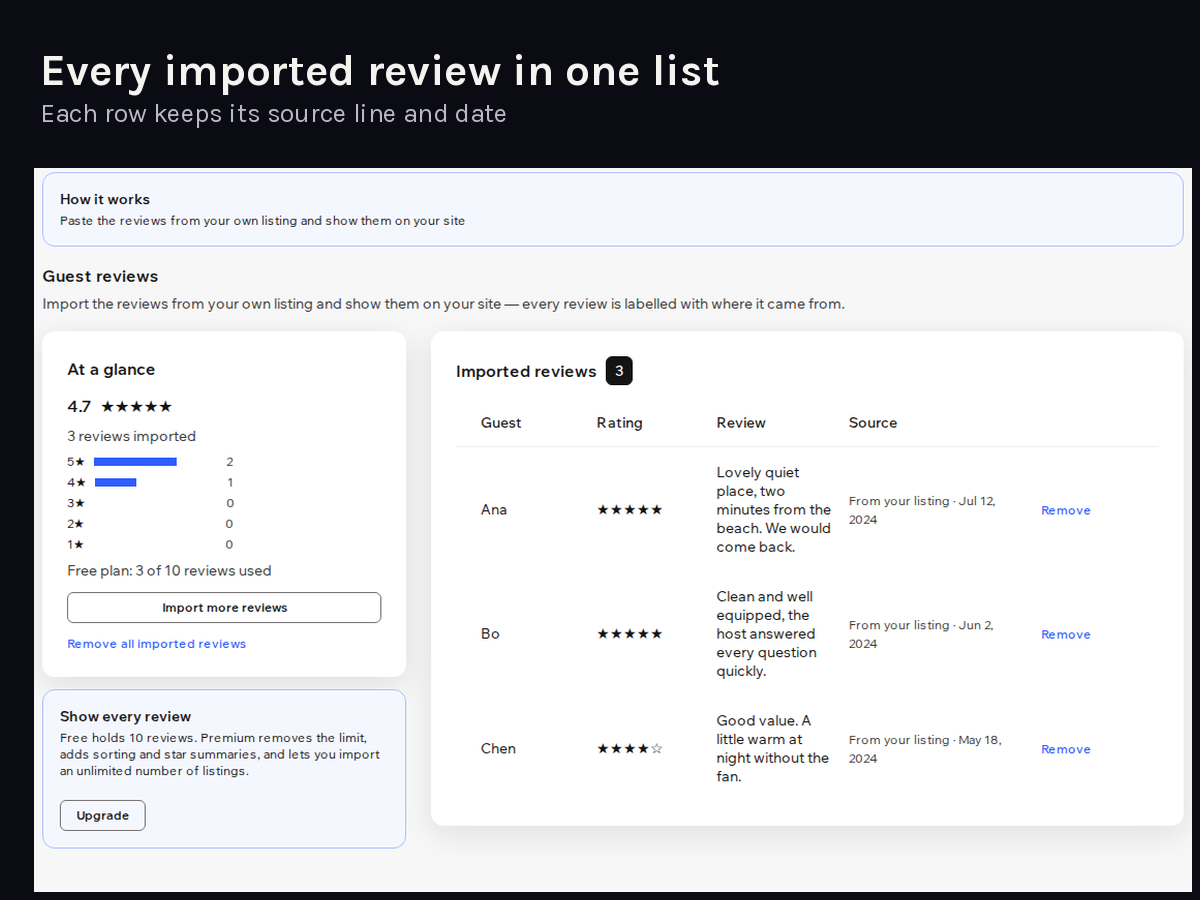
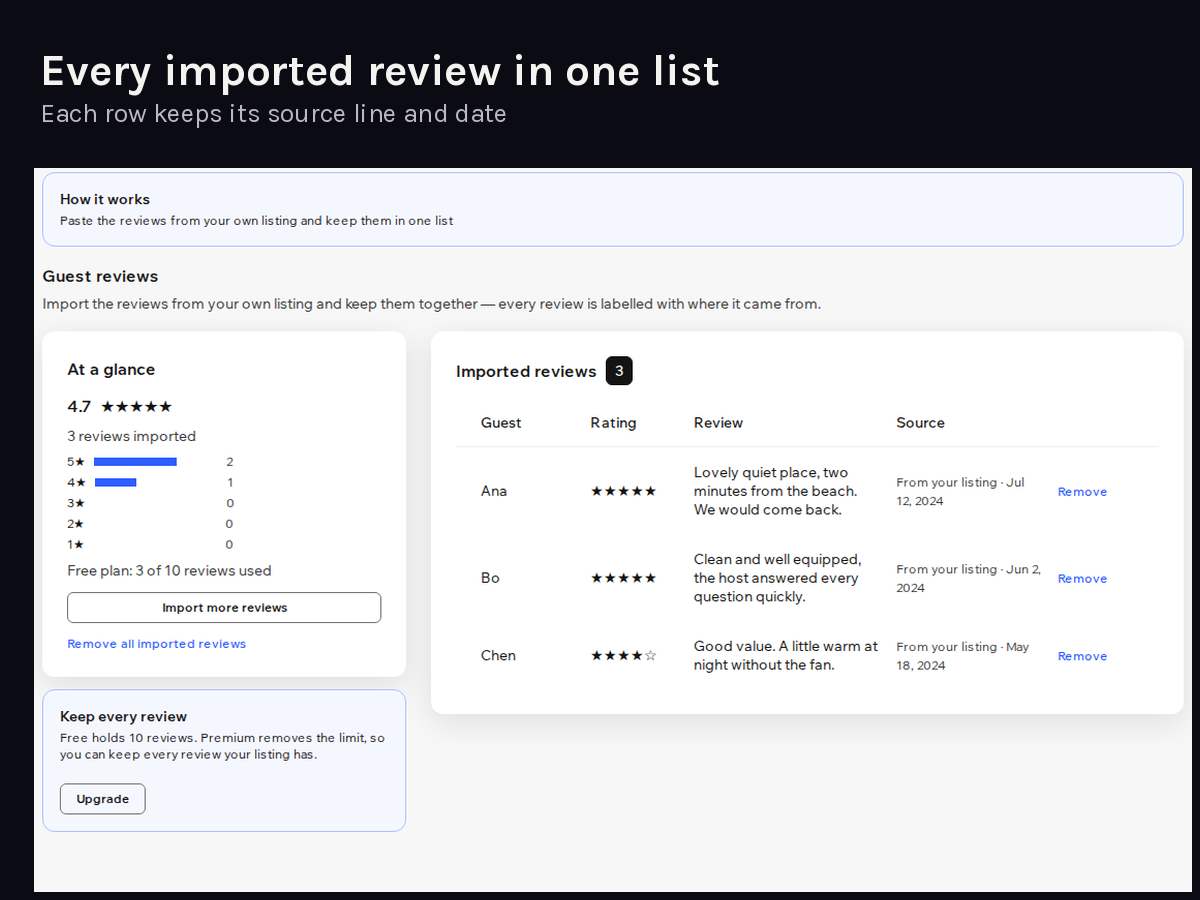
meterreadings: app page + legal pages, fixed Free plan card

diff --git a/wix/meterreadings/index.html b/wix/meterreadings/index.html
@@ -1,0 +1,36 @@
+<!doctype html><html lang="en"><head><meta charset="utf-8"><meta name="viewport" content="width=device-width,initial-scale=1">
+<title>Utility: Meter Readings: a gas, water and electricity meter log with usage and cost for landlords</title>
+<meta name="description" content="Meter readings, usage and cost per property. Rented flats, houses and small portfolios have meters that nobody enjoys reading: the gas, water and electricity numbers sit on paper or in a chat thr">
+<link rel="canonical" href="https://prometheus-maker.github.io/wix/meterreadings/">
+<link rel="icon" href="../../mark.svg" type="image/svg+xml"><link rel="stylesheet" href="../../style.css"><script data-goatcounter="https://prometheus-maker.goatcounter.com/count" async src="https://gc.zgo.at/count.js"></script>
+<meta property="og:title" content="Utility: Meter Readings: a gas, water and electricity meter log with usage and cost for landlords"><meta property="og:description" content="Meter readings, usage and cost per property. Rented flats, houses and small portfolios have meters that nobody enjoys reading: the gas, water and electricity numbers sit on paper or in a chat thr"><style>
+.app-hero{display:flex;gap:16px;align-items:center;margin:8px 0 4px}.app-hero img{border-radius:14px}
+.cta{display:inline-block;padding:12px 20px;border-radius:10px;font-weight:650;text-decoration:none;margin:12px 0 4px;
+ background:linear-gradient(135deg,#FF4D2E,#FF9A1F);color:#17161A}.cta:hover{filter:brightness(1.08)}
+.soon{display:inline-block;padding:10px 16px;border-radius:10px;border:1px solid var(--line,#2A2A35);margin:12px 0 4px}
+.feat{padding-left:1.2em}.plans{display:grid;grid-template-columns:repeat(auto-fit,minmax(230px,1fr));gap:12px;margin:12px 0}
+.plan{border:1px solid var(--line,#2A2A35);border-radius:14px;padding:12px 16px}.plan h3{margin:4px 0}
+.plan ul{padding-left:1.1em;margin:6px 0}.shot{width:100%;height:auto;border-radius:14px;border:1px solid var(--line,#2A2A35)}
+.apps{display:grid;grid-template-columns:repeat(auto-fit,minmax(260px,1fr));gap:12px;margin:16px 0}
+.appc{display:flex;gap:12px;border:1px solid var(--line,#2A2A35);border-radius:14px;padding:12px;text-decoration:none;color:inherit}
+.appc:hover{border-color:#FF4D2E}.appc img{border-radius:10px;flex:none}.appc b{display:block}.appc span{font-size:15px}
+.st{display:inline-block;margin-top:6px;font-size:12px;font-weight:600;padding:2px 8px;border-radius:99px;background:rgba(127,127,140,.16);color:var(--mut)}.st.live{background:var(--glow);color:var(--acc)}
+</style>
+</head><body><main>
+<header><a href="../../"><img src="../../mark.svg" width="22" height="22" alt="" style="vertical-align:-4px"> Prometheus</a> · <a href="../../wix/">Wix apps</a></header>
+<div class="app-hero"><img src="icon.png" width="64" height="64" alt=""><div>
+<h1 style="margin:0">Utility: Meter Readings</h1><p class="mut" style="margin:4px 0 0">Meter readings, usage and cost per property</p></div></div>
+<span class="soon">Coming to the Wix App Market soon. The link goes here once it is listed.</span>
+<ul class="feat"><li>Gas, water and electricity per property</li><li>Usage since the previous reading</li><li>Cost per interval at each meter&#x27;s tariff</li><li>Free: 1 property, 3 meters, any readings</li></ul>
+<img class="shot" src="shot.png" alt="Utility: Meter Readings dashboard" loading="lazy">
+<h2>What it does</h2>
+<p>Rented flats, houses and small portfolios have meters that nobody enjoys reading: the gas, water and electricity numbers sit on paper or in a chat thread, and every month somebody works out the usage by hand. This app keeps one log of every meter, per property, and does the arithmetic.</p>
+<p>Add a meter with its property, kind and unit, then type in the number whenever you read it. The dashboard shows the latest reading of every meter, the usage since the previous reading and how many days it covers. Open a meter to see its whole history, add a new reading, or delete a wrong entry. A number lower than the one before it is refused, so a mistyped digit does not turn into fake usage.</p>
+<p>The free plan keeps one property and three meters, with unlimited readings on them. Premium removes the limits and adds the cost: each interval is multiplied by the meter&#x27;s tariff, so a gas period, an electricity month or a water quarter shows in money as well as in units, with the total cost and a CSV export of every reading.</p>
+<p>Readings stay in your site&#x27;s dashboard under your own login, and nothing is sent anywhere else. Premium is $4 a month, or $3 a month billed yearly, with a 14-day free trial.</p>
+<h2>Price</h2>
+<div class="plans"><div class="plan"><h3>Free</h3><ul><li>1 property and 3 meters</li><li>Unlimited readings per meter</li><li>Usage since the previous reading</li><li>Reading history per meter</li></ul></div>
+<div class="plan"><h3>Premium</h3><p class="mut" style="margin:0">$4/month, or $3/month billed yearly ($36/year), 14-day free trial</p><ul><li>Unlimited properties and meters</li><li>Cost per interval at each meter&#x27;s tariff, and the total</li><li>Reading history per meter, with the interval usage</li><li>CSV export of every reading</li></ul></div></div>
+
+<p class="mut"><a href="support.html">Support</a> · <a href="privacy.html">Privacy</a> · <a href="terms.html">Terms</a></p>
+</main></body></html>

diff --git a/wix/meterreadings/privacy.html b/wix/meterreadings/privacy.html
@@ -1,0 +1,27 @@
+<!doctype html><html lang="en"><head><meta charset="utf-8"><meta name="viewport" content="width=device-width,initial-scale=1">
+<title>Privacy Policy: Utility: Meter Readings for Wix</title>
+<meta name="description" content="Privacy Policy for the Utility: Meter Readings app on Wix.">
+<link rel="icon" href="../../mark.svg" type="image/svg+xml"><link rel="stylesheet" href="../../style.css">
+</head><body><main>
+<header><a href="../../"><img src="../../mark.svg" width="22" height="22" alt="" style="vertical-align:-4px"> Prometheus</a></header>
+<h1>Privacy Policy: Utility: Meter Readings</h1>
+<p>Effective date: 2026-11-25</p>
+<p>Developer: Prometheus (<a href="https://prometheus-maker.github.io" target="_blank" rel="noopener">https://prometheus-maker.github.io</a>)</p>
+<p>Contact: prometheus.maker@proton.me</p>
+<p>This policy describes what the Utility: Meter Readings app (&quot;the app&quot;) does with data.</p>
+<h2>What the app does</h2>
+<p>The app adds a page to your site&#x27;s dashboard where you keep a log of your utility meters (gas, water, electricity) per property, record the numbers you read and see the usage and the cost between readings.</p>
+<h2>Data the app handles</h2>
+<ul>
+<li>Meters: the property name, the meter label, the kind, the unit, the tariff per unit and the currency you type are stored in the app&#x27;s data collections on your site.</li>
+<li>Readings: the reading date, the number on the meter and the optional note you type are stored in the app&#x27;s data collections on your site.</li>
+<li>Plan status: the dashboard asks the platform whether your site is on the free or the paid plan, and receives that one fact. The app has no backend of its own and keeps no separate copy of anything.</li>
+<li>Account: the dashboard runs inside your account, and the platform identifies the signed-in user to it in the usual way.</li>
+</ul>
+<p>The app keeps no logs of visitors, sends no e-mail, reads no other part of your site and shares no data with third parties. The app has no public page.</p>
+<h2>Keeping and removing data</h2>
+<p>Data stays on your site until you delete it, in the dashboard or by removing the app. Deleting a meter removes its readings too. Removing the app removes its collections and everything in them.</p>
+<h2>Questions</h2>
+<p>Write to prometheus.maker@proton.me.</p>
+<p class="mut">Utility: Meter Readings: <a href="privacy.html">Privacy</a> · <a href="terms.html">Terms</a> · <a href="support.html">Support</a></p>
+</main></body></html>

diff --git a/wix/meterreadings/terms.html b/wix/meterreadings/terms.html
@@ -1,0 +1,25 @@
+<!doctype html><html lang="en"><head><meta charset="utf-8"><meta name="viewport" content="width=device-width,initial-scale=1">
+<title>Terms of Use: Utility: Meter Readings for Wix</title>
+<meta name="description" content="Terms of Use for the Utility: Meter Readings app on Wix.">
+<link rel="icon" href="../../mark.svg" type="image/svg+xml"><link rel="stylesheet" href="../../style.css">
+</head><body><main>
+<header><a href="../../"><img src="../../mark.svg" width="22" height="22" alt="" style="vertical-align:-4px"> Prometheus</a></header>
+<h1>Terms of Use: Utility: Meter Readings</h1>
+<p>Effective date: 2026-11-25</p>
+<p>Developer: Prometheus (<a href="https://prometheus-maker.github.io" target="_blank" rel="noopener">https://prometheus-maker.github.io</a>)</p>
+<p>Contact: prometheus.maker@proton.me</p>
+<p>These terms cover the Utility: Meter Readings app (&quot;the app&quot;) on your site.</p>
+<h2>What the app does</h2>
+<p>The app keeps a log of your utility meters and readings in your site&#x27;s dashboard, works out the usage between two readings of the same meter, and, on the paid plan, the cost of that usage at the tariff you entered.</p>
+<h2>Your account and your data</h2>
+<p>You keep all rights to the data you enter. The app stores it on your site. You are responsible for the numbers you enter and for the tariffs you set; the app does the arithmetic with exactly those values.</p>
+<h2>Plans</h2>
+<p>The free plan covers one property and three meters, with unlimited readings on them. Premium adds unlimited properties and meters, the cost of each interval at the meter&#x27;s tariff with the total cost, and a CSV export of every reading. Premium is billed by the platform at $4 a month, or $3 a month billed yearly, after a 14-day free trial. You can cancel from your account at any time; the plan stays active until the paid period ends.</p>
+<h2>Availability</h2>
+<p>The app is provided as it is. A reading that was typed wrong gives a wrong usage, so check the numbers against the meter before you rely on a cost. The developer is not liable for billing decisions, refunds or other losses that follow from the data entered.</p>
+<h2>Changes</h2>
+<p>The developer may change these terms; the current version is always on this page.</p>
+<h2>Questions</h2>
+<p>Write to prometheus.maker@proton.me.</p>
+<p class="mut">Utility: Meter Readings: <a href="privacy.html">Privacy</a> · <a href="terms.html">Terms</a> · <a href="support.html">Support</a></p>
+</main></body></html>

diff --git a/wix/meterreadings/support.html b/wix/meterreadings/support.html
@@ -1,0 +1,23 @@
+<!doctype html><html lang="en"><head><meta charset="utf-8"><meta name="viewport" content="width=device-width,initial-scale=1">
+<title>Support: Utility: Meter Readings for Wix</title>
+<meta name="description" content="Support for the Utility: Meter Readings app on Wix.">
+<link rel="icon" href="../../mark.svg" type="image/svg+xml"><link rel="stylesheet" href="../../style.css">
+</head><body><main>
+<header><a href="../../"><img src="../../mark.svg" width="22" height="22" alt="" style="vertical-align:-4px"> Prometheus</a></header>
+<h1>Support: Utility: Meter Readings</h1>
+<p>Developer: Prometheus</p>
+<p>Contact: prometheus.maker@proton.me</p>
+<p>Write to the address above for any problem with the Utility: Meter Readings app. Say which site and which meter, and what you expected and saw.</p>
+<h2>Common questions</h2>
+<h3>A reading is refused</h3>
+<p>The app refuses a number lower than the previous reading of the same meter, because usage would turn negative. If the meter really was replaced or reset, add the new meter instead, or enter the reading after correcting the older one.</p>
+<h3>The cost shows &quot;— Premium&quot;</h3>
+<p>The cost of an interval is a Premium feature. The tariff you type is stored on the free plan and used as soon as the app is on Premium.</p>
+<h3>The CSV export is greyed out</h3>
+<p>Export is part of Premium. The free plan shows the meters and the usage on screen.</p>
+<h3>I added a meter and nothing appears</h3>
+<p>Check the kind and unit on the meter, and look at the filter boxes above the table: a search text or a kind filter left in place can hide a row.</p>
+<h3>The plan looks free after I paid</h3>
+<p>Open the app again; the plan is read each time the dashboard page loads. If it still shows free, write to the address above with your site name.</p>
+<p class="mut">Utility: Meter Readings: <a href="privacy.html">Privacy</a> · <a href="terms.html">Terms</a> · <a href="support.html">Support</a></p>
+</main></body></html>

diff --git a/wix/eventbudget/index.html b/wix/eventbudget/index.html
@@ -20,7 +20,7 @@
 <header><a href="../../"><img src="../../mark.svg" width="22" height="22" alt="" style="vertical-align:-4px"> Prometheus</a> · <a href="../../wix/">Wix apps</a></header>
 <div class="app-hero"><img src="icon.png" width="64" height="64" alt=""><div>
 <h1 style="margin:0">Budget: Wedding &amp; Event</h1><p class="mut" style="margin:4px 0 0">Track a wedding or event budget, paid or unpaid</p></div></div>
-<span class="soon">Coming to the Wix App Market soon. The link goes here once it is listed.</span>
+<a class="cta" href="https://www.wix.com/app-market/prometheus-budget-wedding-event" target="_blank" rel="noopener">Add to your site from the Wix App Market</a>
 <ul class="feat"><li>Every cost in one budget, paid or unpaid</li><li>Planned, actual and still to pay, side by side</li><li>Category totals with share bars</li><li>CSV export for a spreadsheet or a partner</li></ul>
 <img class="shot" src="shot.png" alt="Budget: Wedding &amp; Event dashboard" loading="lazy">
 <h2>What it does</h2>
